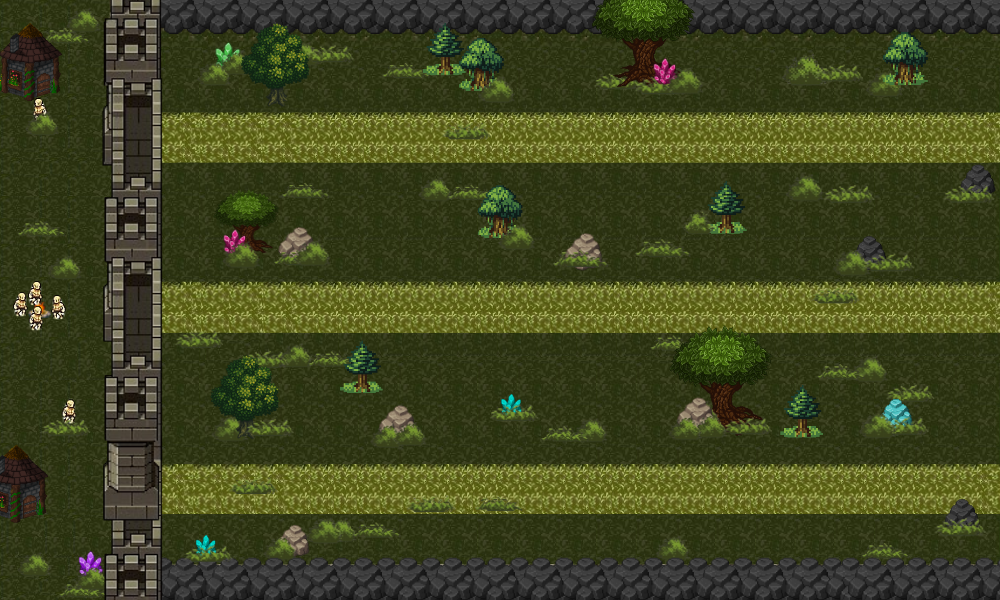
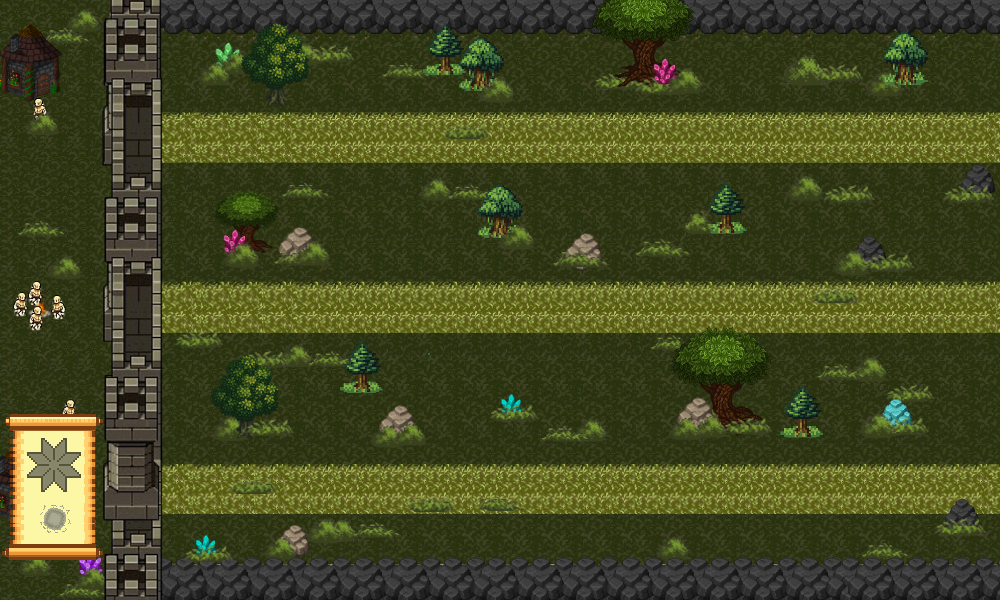
Added ability scroll aswell as ability x,y coord

Changed region(s): [[0.0, 0.69, 0.124, 0.96]]

diff --git a/src/main/java/org/example/Main-Application.java b/src/main/java/org/example/Main-Application.java
@@ -31,8 +31,10 @@ class MainApplication extends JFrame implements KeyListener {
     private final int arrowCooldownDelay = 450; // 0.45 seconds
 //    Sound sound = new Sound();
     private Point initialClick;
+    private JLabel scrollLabel;
     private JLabel bombLabel;
     private JLabel snowflakeLabel;
+
     private String playerName;
 
 
@@ -54,6 +56,11 @@ class MainApplication extends JFrame implements KeyListener {
         contentpane.setIcon(background);
         contentpane.setLayout(null);
 
+//        scrollLabel = new JLabel(new MyImageIcon(MyConstants.SCROLL).resize(64, 128));
+//        scrollLabel.setBounds(10, frameheight - 174, 64, 128);
+//        contentpane.add(scrollLabel);
+//        setVisible(true);
+
         // Initialize wizard
         Wizard = new PlayerAnimation(MyConstants.WIZARD, MyConstants.WIZARD_UP, MyConstants.WIZARD_DOWN, MyConstants.WIZARD_SHOOT, 128, 128, 6, 4, 4, 5, 200);
         Wizard.setPlayerStart(playerX, middle_laneY - 50);
@@ -71,14 +78,14 @@ class MainApplication extends JFrame implements KeyListener {
         hearts = new JLabel[3];
         heartsCount = 3; // Initialize hearts count
         for (int i = 0; i < hearts.length; i++) {
-            hearts[i] = new JLabel(new MyImageIcon(MyConstants.FHeart).resize(25, 21));
+            hearts[i] = new JLabel(new MyImageIcon(MyConstants.FHeart));
             hearts[i].setBounds(850 + (i * 30), 20, 25, 21);
             contentpane.add(hearts[i]);
         }
 
         // Add bomb image to bottom left and make it draggable
         JLabel bombLabel = new JLabel(new MyImageIcon(MyConstants.BOMB).resize(64, 64));
-        bombLabel.setBounds(10, frameheight - 114, 64, 64); // Adjusted position to be bottom left
+        bombLabel.setBounds(23, frameheight - 133, 64, 64); // Adjusted position to be bottom left
         contentpane.add(bombLabel);
 
         bombLabel.addMouseListener(new MouseAdapter() {
@@ -116,7 +123,7 @@ class MainApplication extends JFrame implements KeyListener {
 
         // Add snowflake image to bottom left and make it draggable
         snowflakeLabel = new JLabel(new MyImageIcon(MyConstants.SNOWFLAKE).resize(64, 64));
-        snowflakeLabel.setBounds(10, frameheight - 174, 64, 64); // Adjusted position to be above bomb
+        snowflakeLabel.setBounds(21, frameheight - 187, 64, 64);
         contentpane.add(snowflakeLabel);
 
         snowflakeLabel.addMouseListener(new MouseAdapter() {
@@ -308,7 +315,7 @@ class MainApplication extends JFrame implements KeyListener {
             public void run() {
                 // Create a new bomb label and add mouse listeners
                 bombLabel = new JLabel(new MyImageIcon(MyConstants.BOMB).resize(64, 64));
-                bombLabel.setBounds(10, frameheight - 114, 64, 64);
+                bombLabel.setBounds(23, frameheight - 133, 64, 64);
                 contentpane.add(bombLabel);
 
                 bombLabel.addMouseListener(new MouseAdapter() {
@@ -372,7 +379,7 @@ class MainApplication extends JFrame implements KeyListener {
             public void run() {
                 // Add snowflake label back to the content pane
                 SwingUtilities.invokeLater(() -> {
-                    snowflakeLabel.setBounds(10, frameheight - 174, 64, 64);
+                    snowflakeLabel.setBounds(21, frameheight - 187, 64, 64);
                     contentpane.add(snowflakeLabel);
                     contentpane.repaint();
                 });

diff --git a/src/main/java/org/example/Utilities.java b/src/main/java/org/example/Utilities.java
@@ -27,6 +27,7 @@ interface MyConstants
     static final String LIGHTNING = PATH + "Lightning_Beam.png";
     static final String BOMB = PATH + "YellowBall.png";
     static final String SNOWFLAKE = PATH + "Snowflake.png";
+    static final String SCROLL = PATH + "Scroll.png";
 
     //----- Sizes and locations
     static final int FRAMEWIDTH   = 1000;
